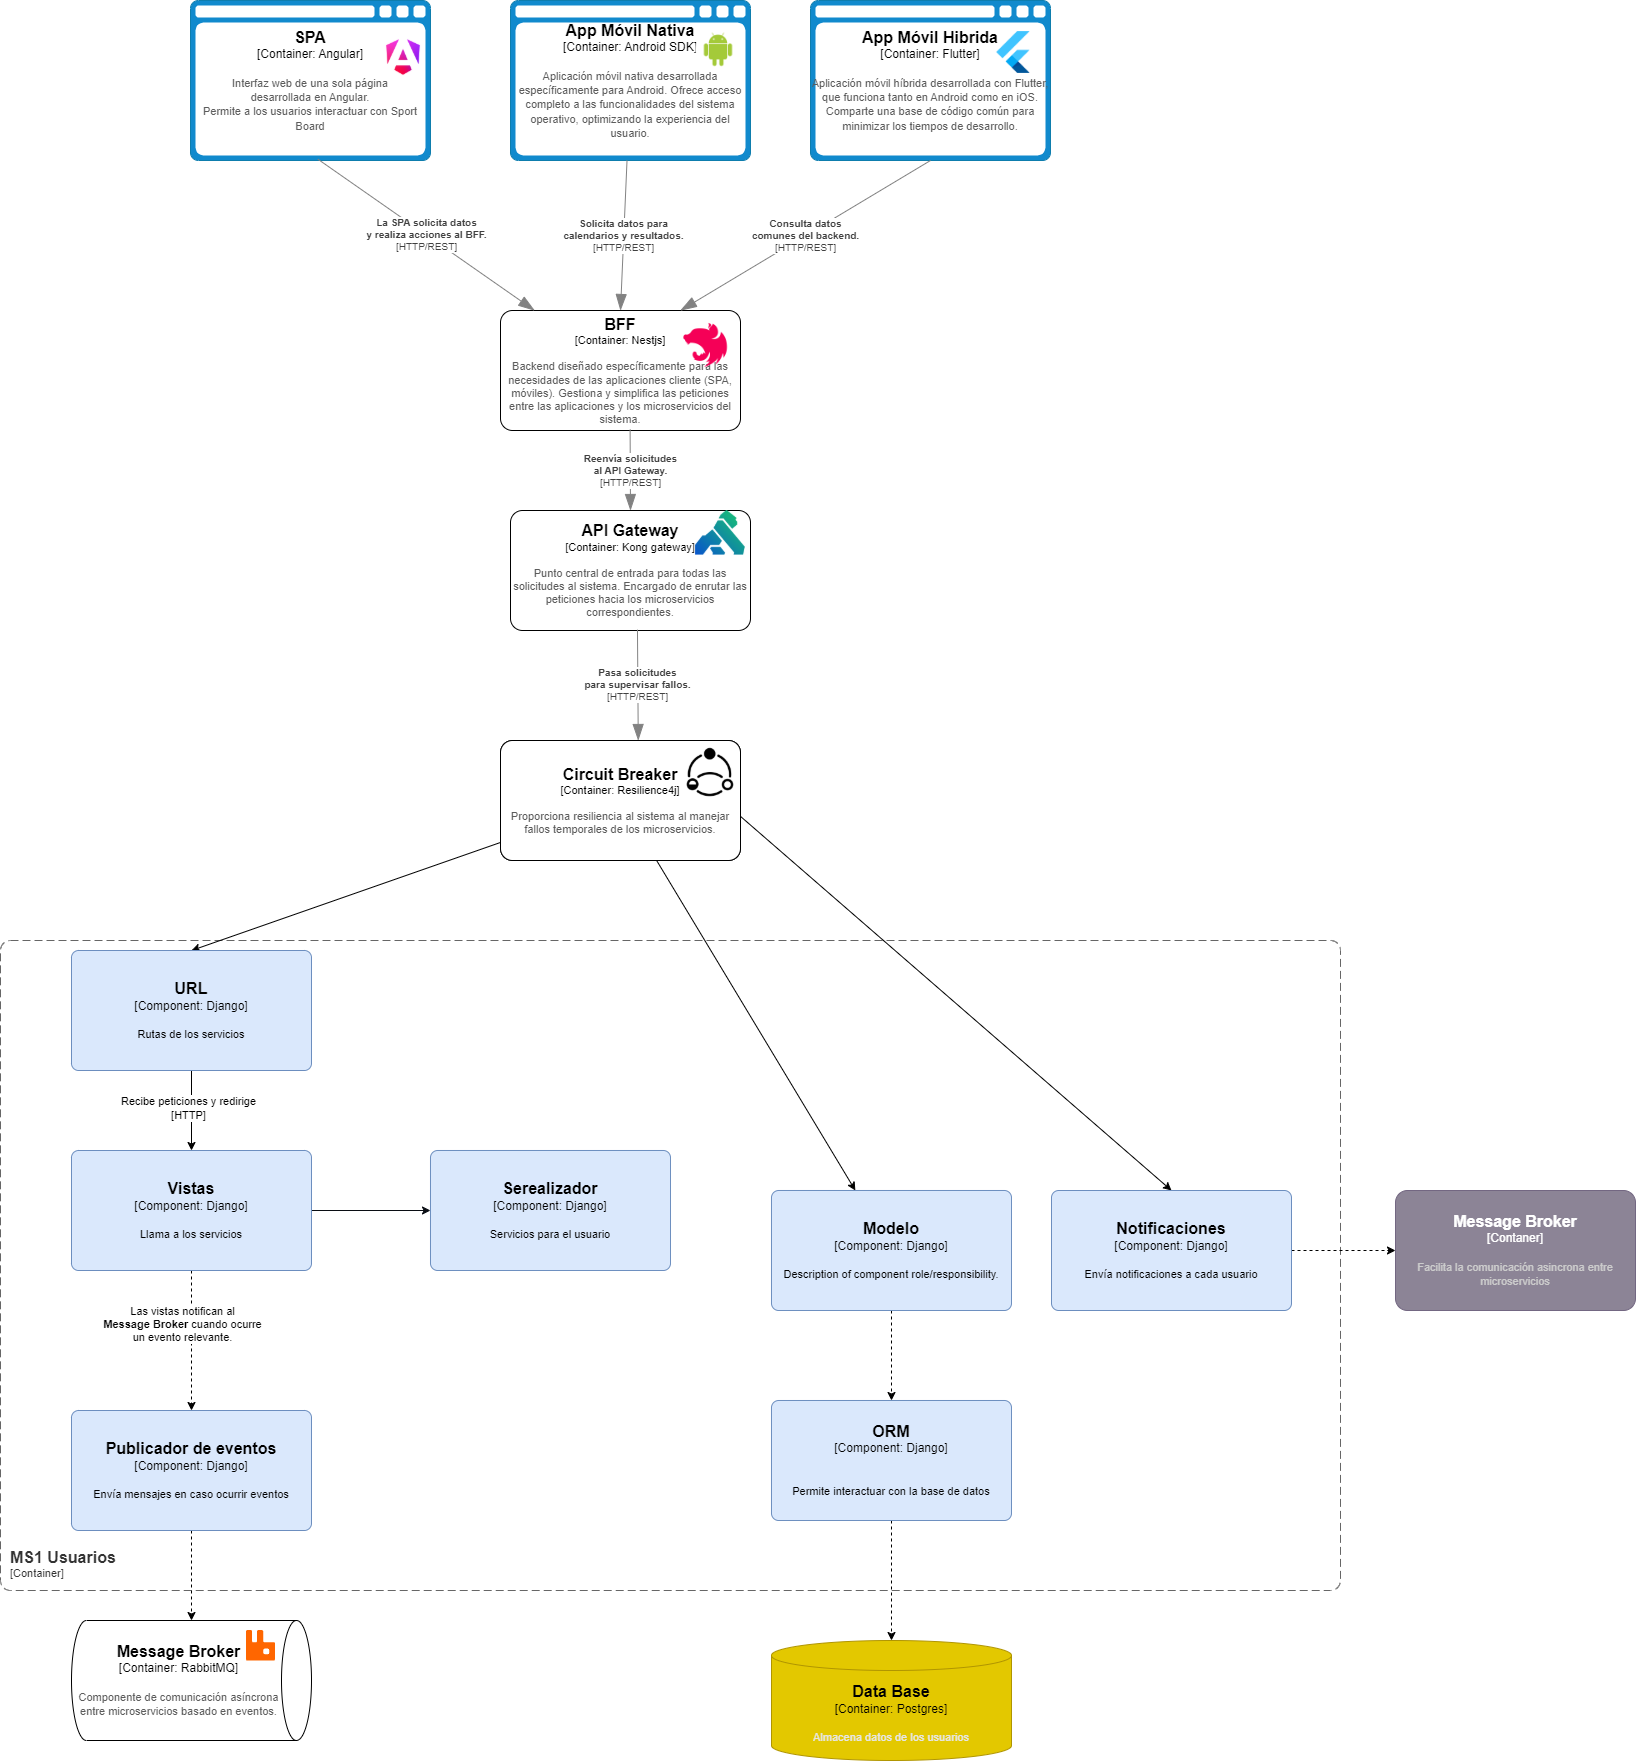
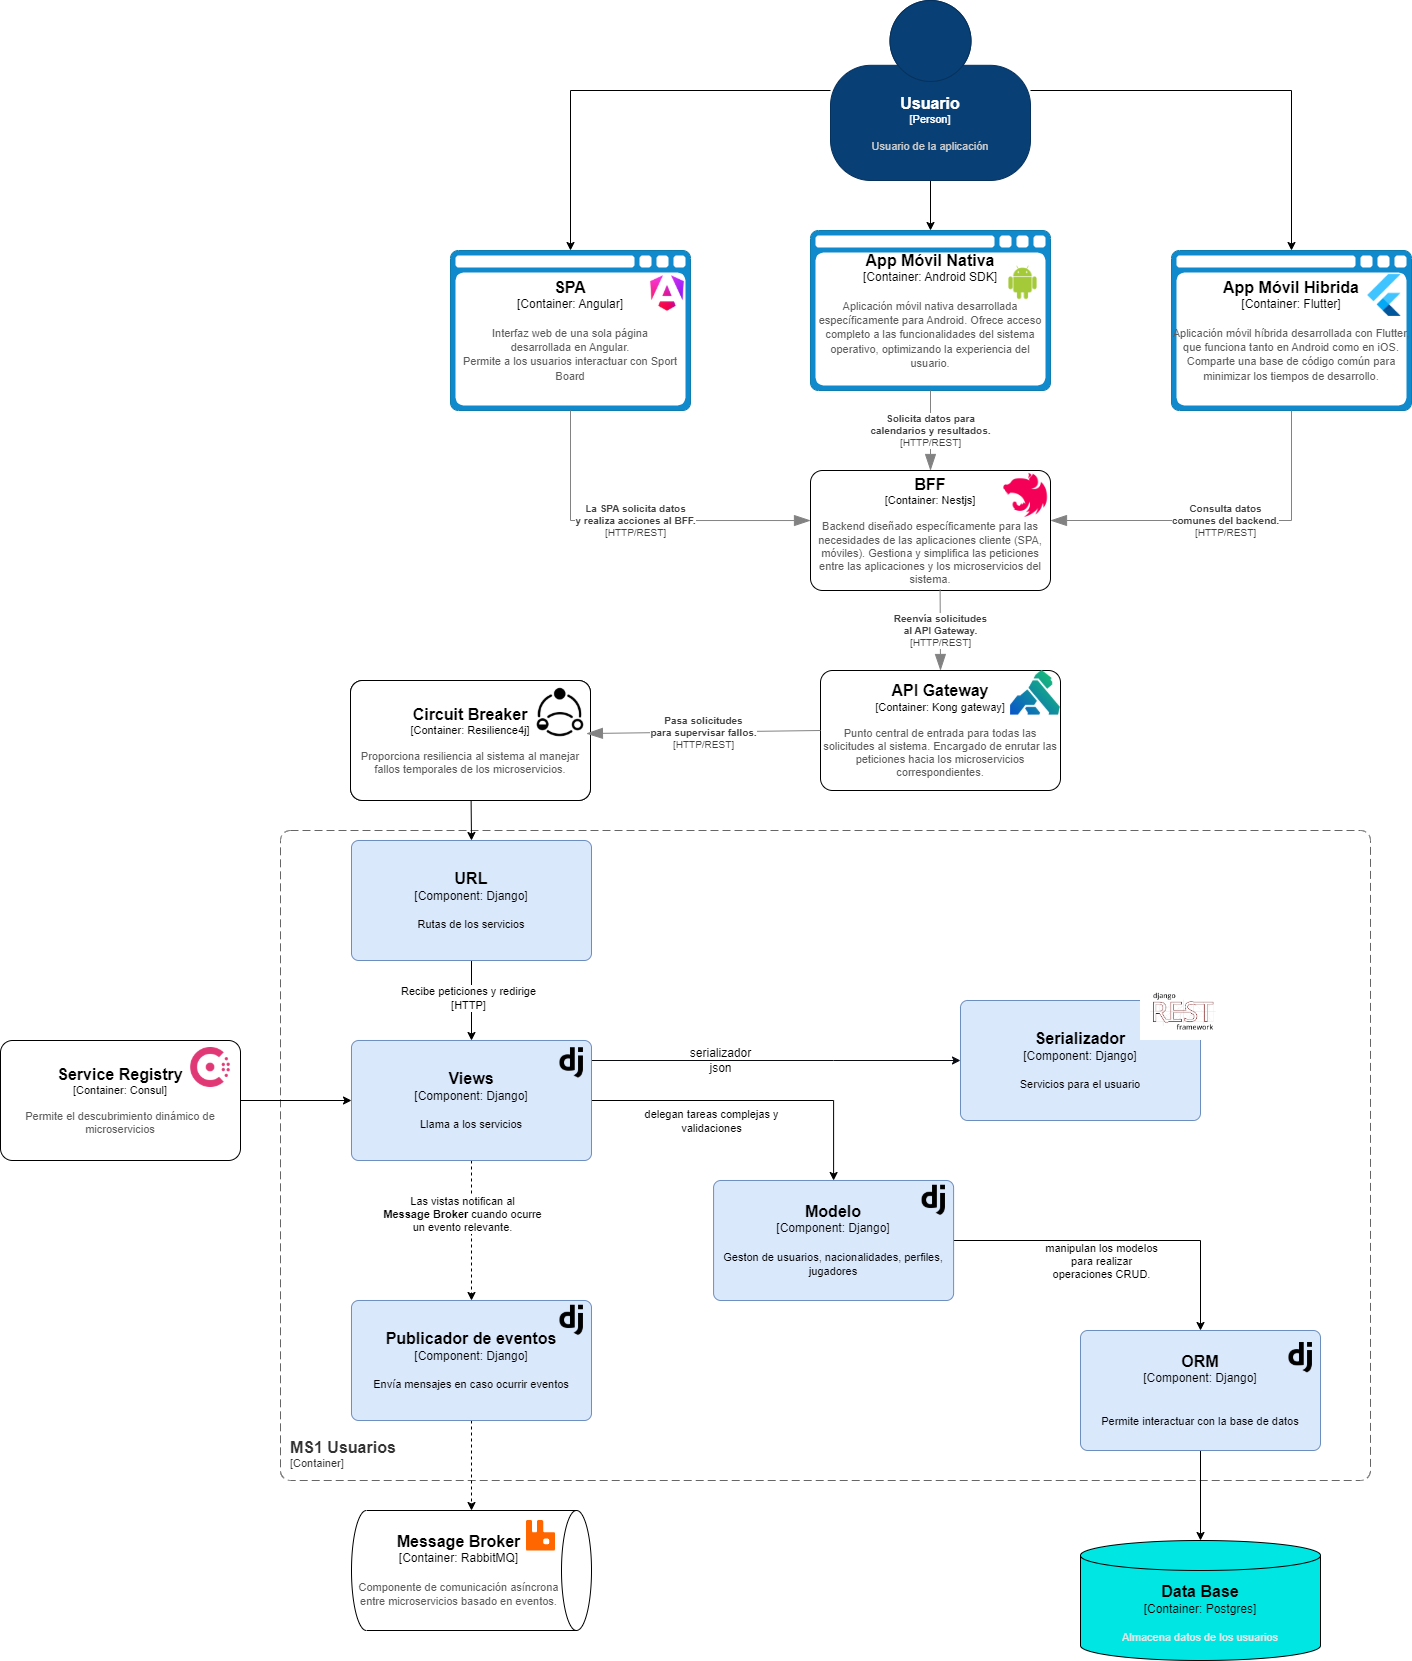
documentacion y arreglos finales

diff --git a/docs/docs/_site/components/microservices/users.html b/docs/docs/_site/components/microservices/users.html
@@ -449,6 +449,12 @@ ul.task-list li input[type="checkbox"] {
 <section id="capa-nivel-4" class="level2" data-number="9">
 <h2 data-number="9" class="anchored" data-anchor-id="capa-nivel-4"><span class="header-section-number">9</span> Capa nivel 4</h2>
 <p>El diagrama de Código es el nivel más bajo en cuanto a su especificación y muestra cómo está implementado un componente a nivel de las clases, los métodos y sus relaciones entre estos. Este nivel es útil para los desarrolladores cuando necesitan ver cómo se estructuran los detalles de implementación del código.</p>
+<div class="quarto-figure quarto-figure-center">
+<figure class="figure">
+<p><img src="Files/c4.jpg" class="img-fluid figure-img"></p>
+<figcaption>Diagrama de implementación C4</figcaption>
+</figure>
+</div>
 </section>
 <section id="integración-de-kong-gateway" class="level2" data-number="10">
 <h2 data-number="10" class="anchored" data-anchor-id="integración-de-kong-gateway"><span class="header-section-number">10</span> Integración de Kong Gateway</h2>
@@ -462,7 +468,7 @@ ul.task-list li input[type="checkbox"] {
 <p>En el directorio de <code>docker/api-gateway</code> se encuenta un archivo <code>kong.yml</code> en el cual se define un servicio para <code>ms1-usermanagement</code>, se incluye <code>static files</code>, <code>media-files</code>, <code>url</code>, <code>routers</code> y <code>paths</code> para configurar la redirección de los endpoints de la aplicacion de gestin de usuarios de <code>Django</code> para que sea gestionada por kong.</p>
 <div class="quarto-figure quarto-figure-center">
 <figure class="figure">
-<p><img src="Files/profiles.jpeg" class="img-fluid figure-img"></p>
+<p><img src="Files/kong.jpeg" class="img-fluid figure-img"></p>
 <figcaption>Implementacion de kong</figcaption>
 </figure>
 </div>

diff --git a/frontend/spa/src/app/services/user_manage/user.service.ts b/frontend/spa/src/app/services/user_manage/user.service.ts
@@ -34,5 +34,5 @@ export class UserService {
     loginUser(user: User): Observable<any> {
         //return this.http.post<any>(environment.services.competencies.endpoints.login, credentials);
         return this.http.post<User>(this.apiUrl, user);
-      }
+    }
 }

diff --git a/frontend/spa/src/environments/environment.ts b/frontend/spa/src/environments/environment.ts
@@ -3,7 +3,7 @@ export const environment = {
     production: false,
     protocol: 'http',
     baseUrl: 'localhost',
-    port: 5000,
+    port: 8004,
     suffix: '', // '/api',
     apiUrl: '',
     services: {
